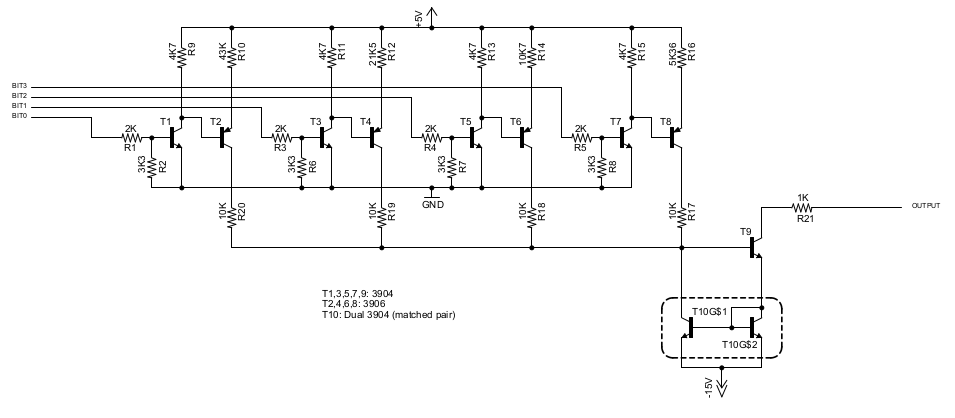
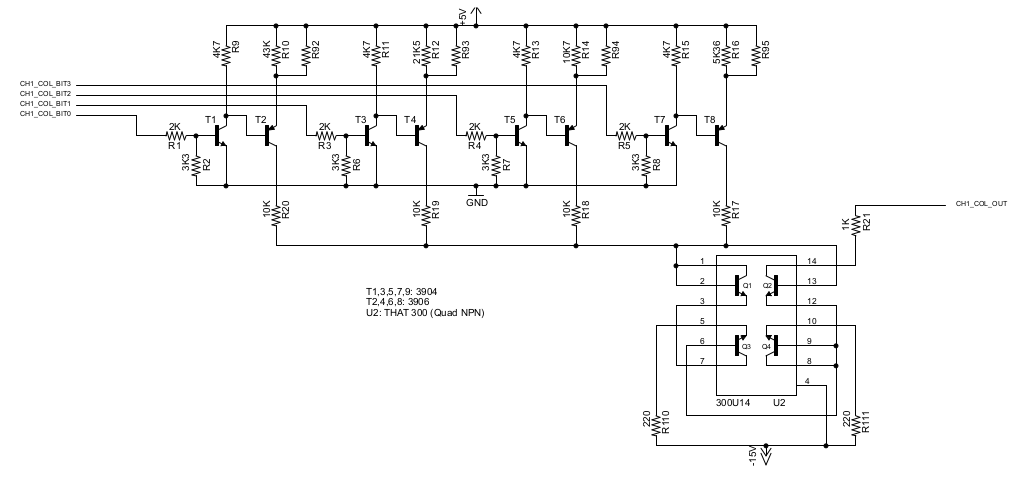
Update current sink schematic and description to include THAT 300 enhanced Wilson current mirror that was deemed necessary in testing.

diff --git a/Readout/README.md b/Readout/README.md
@@ -58,9 +58,11 @@ The theory of operation is as follows:
 * T1 is driven into saturation by a logic 1 input, resulting in the base of T2 being held at around 30 mV.
 * T2 then functions as a 100 uA current source, with the current defined by R10 (since the emitter will be held at (Vbe + ~ 30 mV).
 * Similarly for each of the other three bits. The values of R12, R14, and R16 result in binary weighted current sources.
-* These are summed via 10K resistors and used to drive a Wilson current mirror that provides the signal required by the mainframe as a current sink to the -15 V rail.
+* These are summed via 10K resistors and used to drive an enhanced Wilson current mirror (U2, 4 matched NPN transistors in a single package) that provides the signal required by the mainframe as a current sink to the -15 V rail.
 
 This circuit is repeated four times (row and column for two channels.)
+
+Note: R92-5 are normally not populated. They are on the schematic to facilitate testing of the prototype.
 
 ## PSoC Connectivity
 
